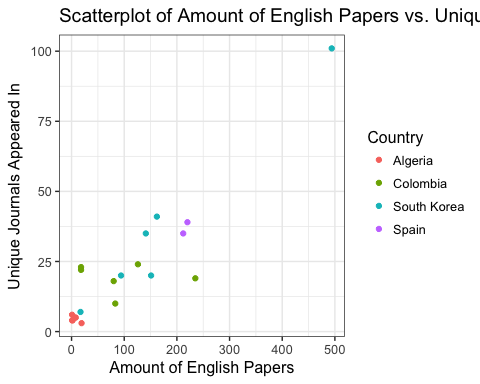
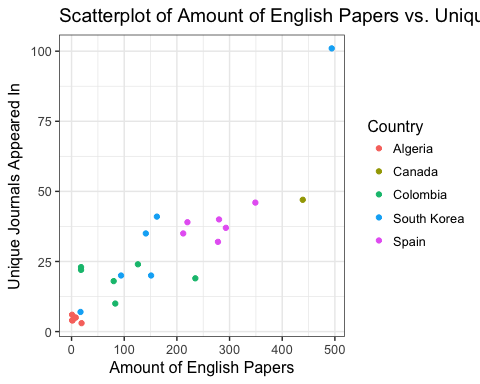
updating files

diff --git a/pubmed.md b/pubmed.md
@@ -1,6 +1,28 @@
 pubmed
 ================
 
+``` r
+# Packages to Load
+library(knitr)
+opts_chunk$set(fig.align="center", fig.height=4, fig.width=5)
+library(ggplot2)
+theme_set(theme_bw(base_size=12))
+library(dplyr)
+```
+
+    ## Warning: package 'dplyr' was built under R version 3.4.2
+
+    ## 
+    ## Attaching package: 'dplyr'
+
+    ## The following objects are masked from 'package:stats':
+    ## 
+    ##     filter, lag
+
+    ## The following objects are masked from 'package:base':
+    ## 
+    ##     intersect, setdiff, setequal, union
+
 ### Statistical analysis
 
 ``` r
@@ -15,9 +37,9 @@ summary(myanova)
 ```
 
     ##                Df Sum Sq Mean Sq F value   Pr(>F)    
-    ## Country         3   3741    1247   12.44 0.000238 ***
-    ## Amount_English  1   4235    4235   42.26    1e-05 ***
-    ## Residuals      15   1503     100                     
+    ## Country         4   5138    1285   14.33 1.49e-05 ***
+    ## Amount_English  1   4142    4142   46.22 1.72e-06 ***
+    ## Residuals      19   1703      90                     
     ## ---
     ## Signif. codes:  0 '***' 0.001 '**' 0.01 '*' 0.05 '.' 0.1 ' ' 1
 
@@ -26,8 +48,6 @@ summary(myanova)
 ### Plot 1
 
 ``` r
-# R code for plot 1 goes here
-
 # Use geom_point to make a Scatterplot of Amount_English and Unique_Journals and colors the points by country
 ggplot(pubmed, aes(x=Amount_English, y= Unique_Journals, color = Country)) + geom_point() +
   # Add a title
@@ -43,15 +63,13 @@ ggplot(pubmed, aes(x=Amount_English, y= Unique_Journals, color = Country)) + geo
 cor(pubmed$Amount_English, pubmed$Unique_Journals)
 ```
 
-    ## [1] 0.9106949
+    ## [1] 0.875527
 
-*This scatterplot shows a positive relationship between the amount of english papers a country has and how many unique journals the country appears in. This relationship can be further seen in the correlation of .81 between the two variables. In other words, the more papers in english, the better chance a country has to be featured in more medical journals. It is also important to note the outlier in the top right. This point can attest to a high r score, but even without this point, there seems to be a general trend between increasing amounts of english papers leading to more unique journals appeared in. We can see that countries like Algeria and Colmbia have low unique jorunal appeareances and less papers in english. On the other hand, countries like Canada have more papers in english and more appearances in unique journals.*
+This scatterplot shows a positive relationship between the amount of english papers a country has and how many unique journals the country appears in. This relationship can be further seen in the correlation of .81 between the two variables. In other words, the more papers in english, the better chance a country has to be featured in more medical journals. It is also important to note the outlier in the top right. This point can attest to a high r score, but even without this point, there seems to be a general trend between increasing amounts of english papers leading to more unique journals appeared in. We can see that countries like Algeria and Colmbia have low unique jorunal appeareances and less papers in english. On the other hand, countries like Canada have more papers in english and more appearances in unique journals.
 
 ### Plot 2
 
 ``` r
-# R code for plot 2 goes here
-
 # Use geom_line to make a Time Series of Unique_Journal count from 2012-2017 for each year
 ggplot(pubmed, aes(x=Year, y=Unique_Journals, color = Country))+geom_line() + 
   # Add Country name to the ends of each line
@@ -62,8 +80,8 @@ ggplot(pubmed, aes(x=Year, y=Unique_Journals, color = Country))+geom_line() +
   xlab("Year") + ylab("Unique Journals Appeared In")
 ```
 
-<img src="pubmed_files/figure-markdown_github/unnamed-chunk-3-1.png" style="display: block; margin: auto;" /> *The time series shows that countries typically have similar amounts of unique journal appearances from year to year with the exception of South Korea. In 2017, South Korea jumped from about 25 unique appearances to 100 which was seen as the outlier point in the previous visualization. We also see that countries like Spain and Canada, which happen to be near medical research giants such as Great Britain and U.S.A respectivley, consistnely have higher Unique Journal Appearances than Colombia and Algeria which are two countries that are quite some ways from the medical research giants mentioned in the Introduction of this project. This is ofcourse speculation, and we do not have enough data to be certain of this claim.*
+<img src="pubmed_files/figure-markdown_github/unnamed-chunk-3-1.png" style="display: block; margin: auto;" /> The time series shows that countries typically have similar amounts of unique journal appearances from year to year with the exception of South Korea. In 2017, South Korea jumped from about 25 unique appearances to 100 which was seen as the outlier point in the previous visualization. We also see that countries like Spain and Canada, which happen to be near medical research giants such as Great Britain and U.S.A respectivley, consistnely have higher Unique Journal Appearances than Colombia and Algeria which are two countries that are quite some ways from the medical research giants mentioned in the Introduction of this project. This is ofcourse speculation, and we do not have enough data to be certain of this claim.
 
 ### Concluding Discussion
 
-*From our data retrieval from NCBI, ANOVA test, scatterplot, and time series, we can conclude that language does affect a country's ability to be pervasive in the medical research world. The Scatterplot showed a positive relationship (r = .81) between the amount of english papers a country has and how many unique journals the country appears in. This could be due to the fact that english is the dominant language in the world and most journals are in english. Countries that have lower amounts of english papers hurt their ability to be featured in more journals and thus have lower pervasiveness in the medical research world. The Time series showed that over the last 5 years, Colombia and Algeria consistnetly had lower unique journals than the other countries. We cannot definitley say that proximity to other medical research giants is causing this, but it is a possibility. Additionally, there may be some interaction between the variables of Country and Amount of English Papers. Different countries have different english literacy rates and future work in this topic can look into this. However, based on the results we have, we can say that for a country to be in the best position possible to be perverse in the medical research world, the country must have plenty of papers in enlglish in order to be included in more unique medical journals. As far as location of a country goes, that needs more data and analysis.*
+From our data retrieval from NCBI, ANOVA test, scatterplot, and time series, we can conclude that language does affect a country's ability to be pervasive in the medical research world. The Scatterplot showed a positive relationship (r = .81) between the amount of english papers a country has and how many unique journals the country appears in. This could be due to the fact that english is the dominant language in the world and most journals are in english. Countries that have lower amounts of english papers hurt their ability to be featured in more journals and thus have lower pervasiveness in the medical research world. The Time series showed that over the last 5 years, Colombia and Algeria consistnetly had lower unique journals than the other countries. We cannot definitley say that proximity to other medical research giants is causing this, but it is a possibility. Additionally, there may be some interaction between the variables of Country and Amount of English Papers. Different countries have different english literacy rates and future work in this topic can look into this. However, based on the results we have, we can say that for a country to be in the best position possible to be perverse in the medical research world, the country must have plenty of papers in enlglish in order to be included in more unique medical journals. As far as location of a country goes, that needs more data and analysis.
